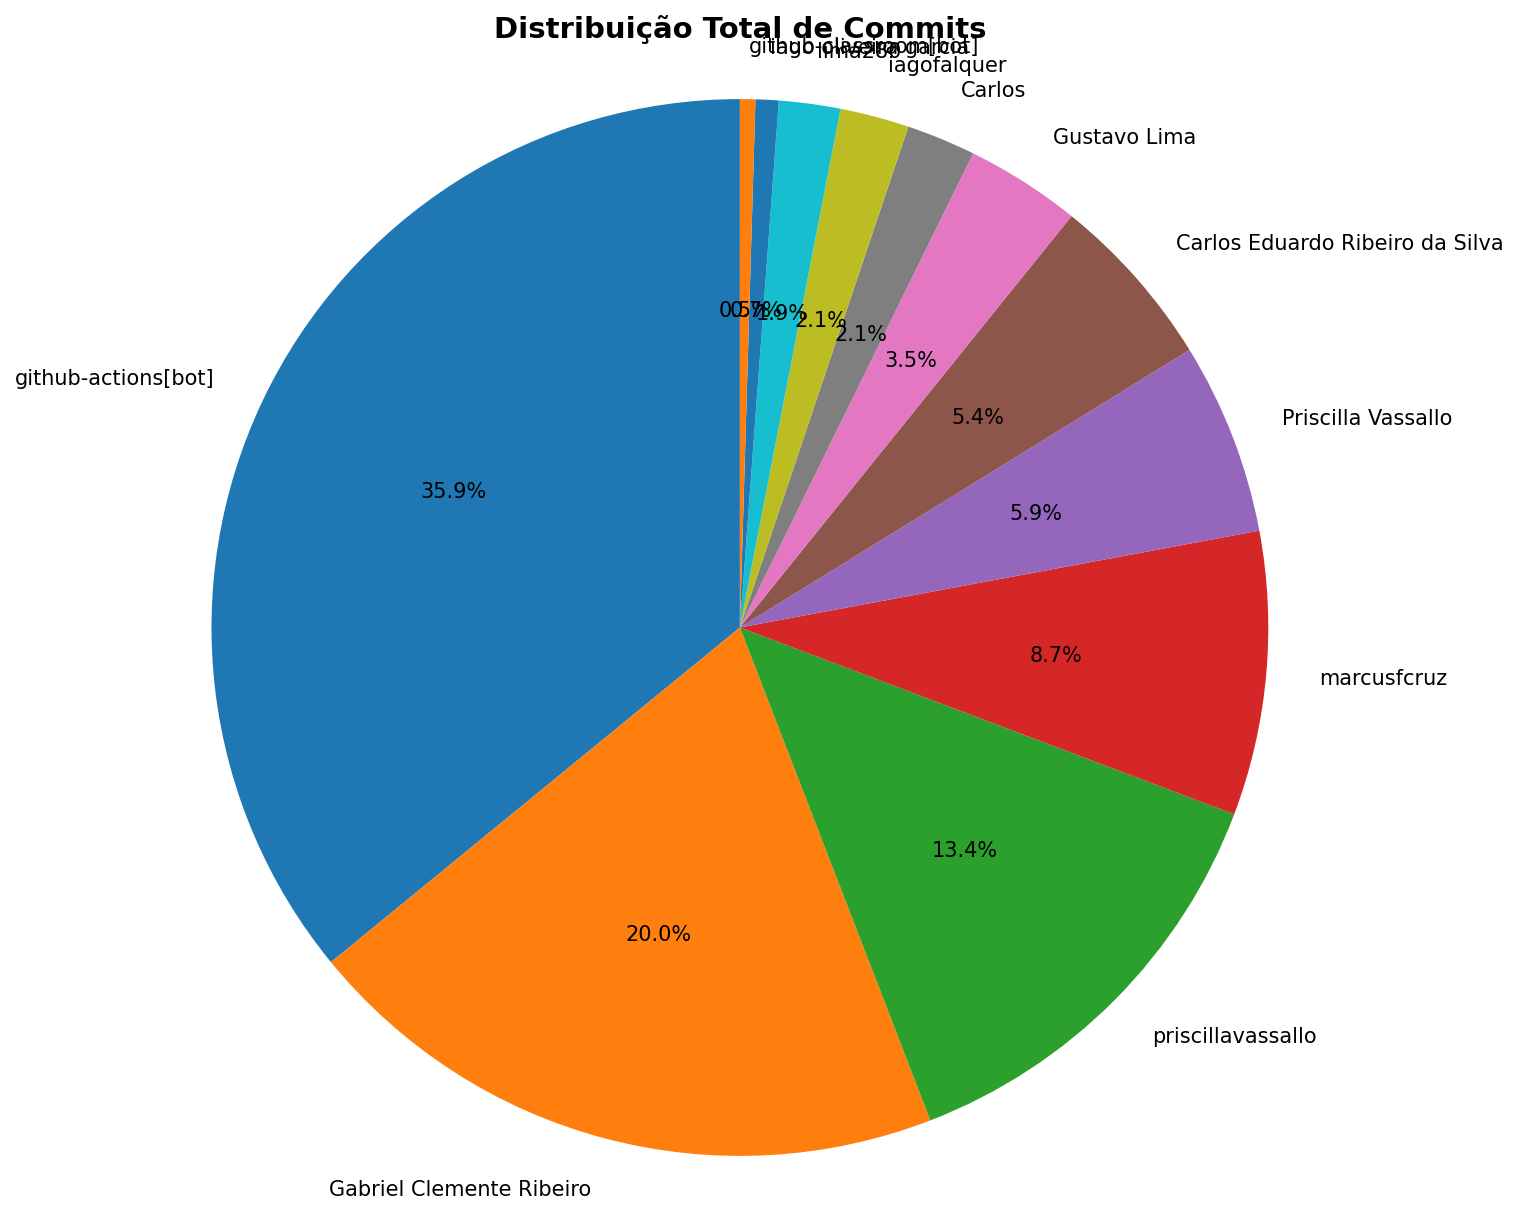
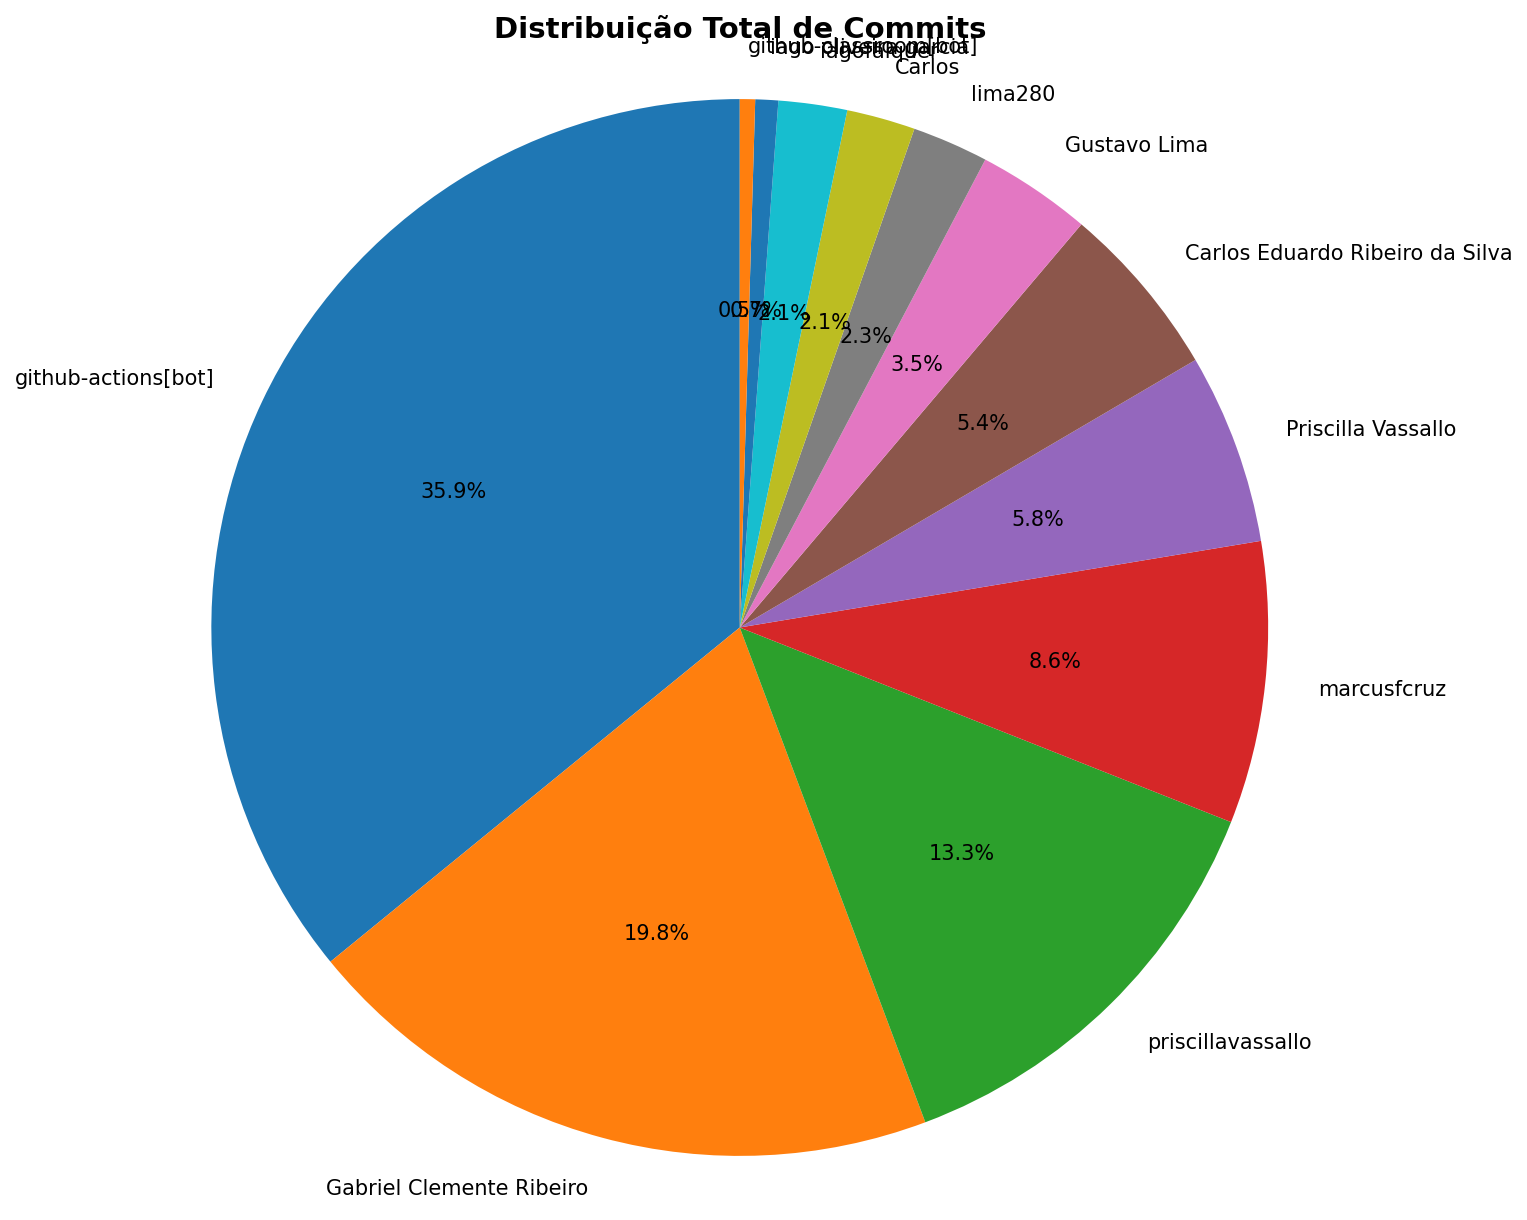
📊 Atualizar relatório de contribuições [skip ci]

diff --git a/documentos/CONTRIBUTION_REPORT.md b/documentos/CONTRIBUTION_REPORT.md
@@ -1,6 +1,6 @@
 # 📊 Relatório de Contribuições do Projeto
 
-**Última atualização:** 08/06/2026 01:08
+**Última atualização:** 08/06/2026 01:24
 
 ---
 
@@ -13,18 +13,18 @@
 | Gabriel Clemente Ribeiro        |        85 |      3508 |      1540 |         43 |             28 |               2 |
 | Gustavo Lima                    |        15 |       259 |       123 |          6 |             14 |               2 |
 | Priscilla Vassallo              |        25 |       266 |       199 |          2 |             25 |               1 |
-| github-actions[bot]             |       153 |      1007 |       923 |          3 |            153 |               1 |
+| github-actions[bot]             |       154 |      1020 |       936 |          3 |            154 |               1 |
 | github-classroom[bot]           |         2 |      1548 |         0 |         19 |              2 |               3 |
 | iago oliveira garcia            |         3 |       368 |       174 |         17 |              0 |               0 |
 | iagofalquer                     |         9 |        98 |       119 |          1 |              9 |               1 |
-| lima280                         |         8 |     11878 |       124 |         83 |              1 |               4 |
+| lima280                         |        10 |     12076 |       145 |         83 |              1 |               4 |
 | marcusfcruz                     |        37 |      3654 |      1545 |         19 |             22 |               1 |
 | priscillavassallo               |        57 |      6739 |      2667 |         52 |              1 |               0 |
 
 
 ## 📅 Contribuições Semanais (Todo o Semestre)
 
-**2026-06-01**: Carlos: 1, Gabriel Clemente Ribeiro: 11, Gustavo Lima: 1, github-actions[bot]: 14, lima280: 1, marcusfcruz: 4, priscillavassallo: 22
+**2026-06-01**: Carlos: 1, Gabriel Clemente Ribeiro: 11, Gustavo Lima: 1, github-actions[bot]: 15, lima280: 3, marcusfcruz: 4, priscillavassallo: 22
 
 **2026-05-25**: Carlos: 2, Carlos Eduardo Ribeiro da Silva: 12, Gabriel Clemente Ribeiro: 18, github-actions[bot]: 17, marcusfcruz: 7, priscillavassallo: 3
 
